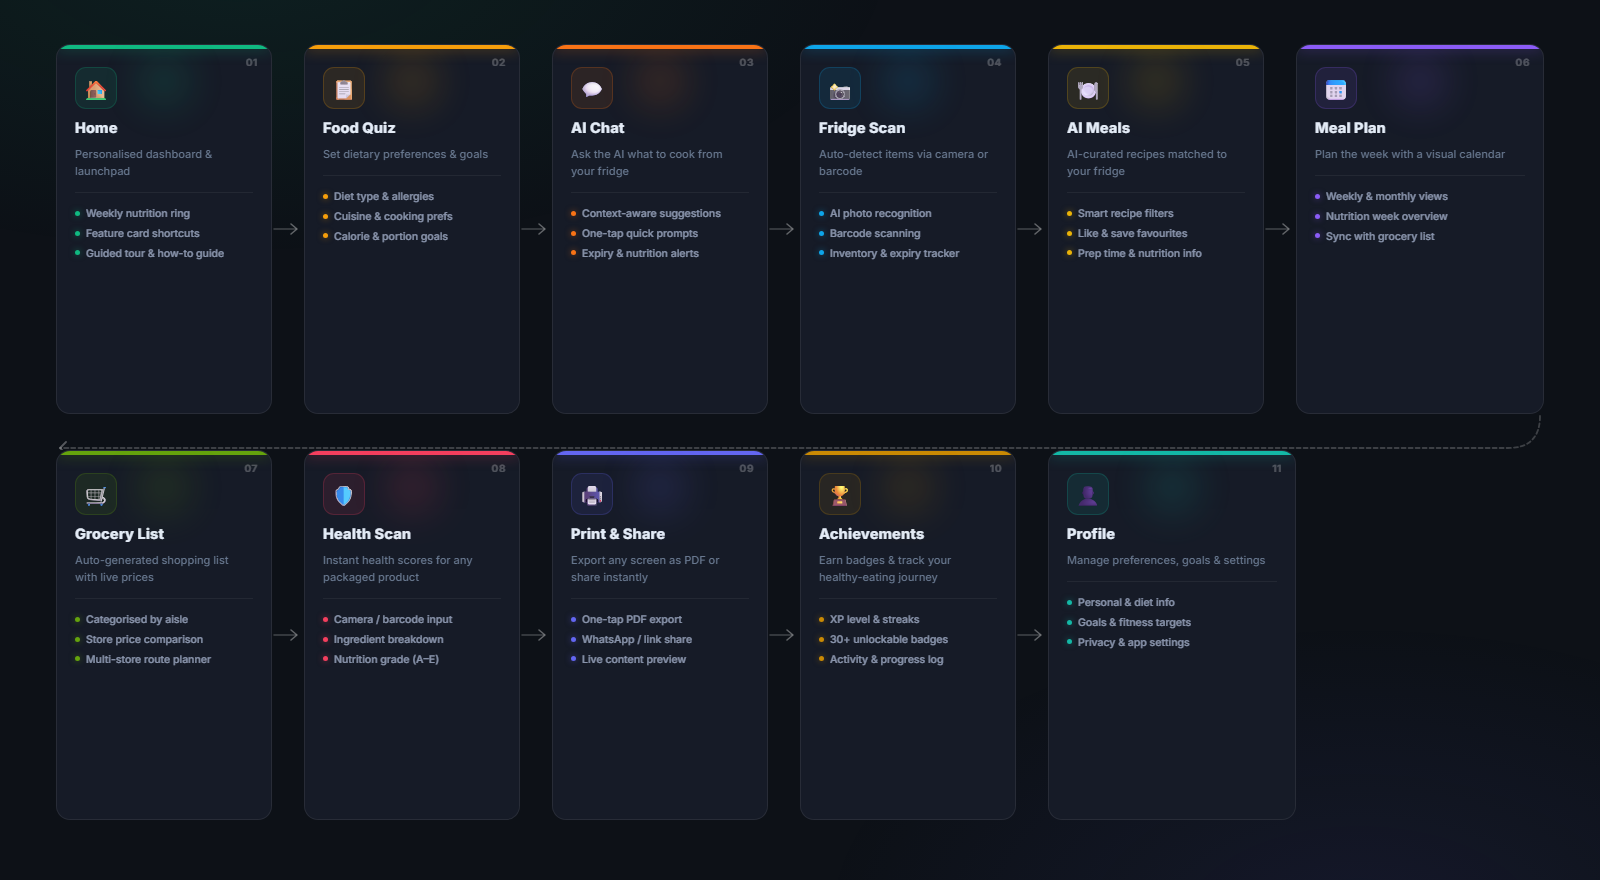
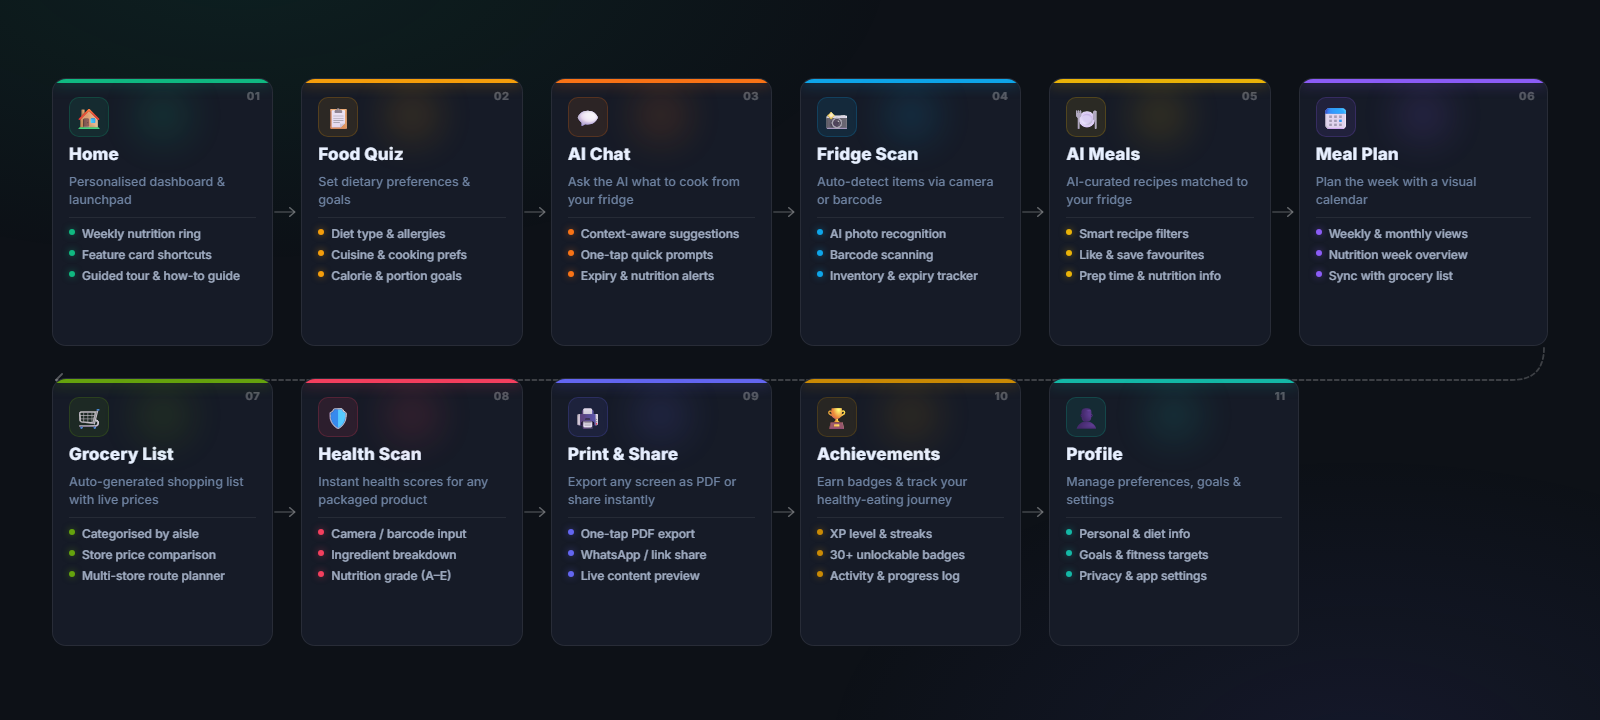
Infographic: shorter cards, larger readable text (1600x720)
Made-with: Cursor

diff --git a/demo-assets/infographic.html b/demo-assets/infographic.html
@@ -11,7 +11,7 @@ body{
   font-family:'Inter',system-ui,sans-serif;
   background:#0d1117;
   width:1600px;
-  height:860px;
+  height:720px;
   overflow:hidden;
 }
 body::before{
@@ -24,9 +24,11 @@ body::before{
 /* ── LAYOUT ─────────────────────────────────── */
 .canvas{
   position:relative;z-index:1;
-  padding:44px 56px 40px;
-  height:860px;
+  padding:36px 52px 32px;
+  height:720px;
   display:flex;flex-direction:column;
+  justify-content:center;
+  gap:0;
 }
 
 /* Each row is its own 6-col grid — same width = equal card sizes */
@@ -34,22 +36,23 @@ body::before{
   display:grid;
   grid-template-columns:repeat(6,1fr);
   gap:0;
-  flex:1;min-height:0;
   align-items:stretch;
+  height:268px;      /* fixed shorter card height */
+  flex-shrink:0;
 }
 
 /* the gap between rows — holds the L-connector */
 .connector-row{
-  height:36px;flex-shrink:0;
+  height:32px;flex-shrink:0;
   position:relative;
 }
 
 /* ── FLOW UNIT = card + arrow ────────────────── */
-.unit{display:flex;align-items:stretch;min-width:0;align-self:stretch;}
+.unit{display:flex;align-items:stretch;min-width:0;}
 
 /* ── ARROW ──────────────────────────────────── */
 .arr{
-  flex-shrink:0;width:32px;
+  flex-shrink:0;width:28px;
   display:flex;align-items:center;justify-content:center;
   align-self:center;
 }
@@ -60,8 +63,8 @@ body::before{
   background:#161b27;
   border:1.5px solid rgba(255,255,255,.08);
   border-radius:14px;
-  padding:22px 18px 18px;
-  display:flex;flex-direction:column;gap:10px;
+  padding:18px 16px 16px;
+  display:flex;flex-direction:column;gap:8px;
   position:relative;overflow:hidden;
   height:100%;
 }
@@ -79,45 +82,45 @@ body::before{
 }
 
 .step{
-  position:absolute;top:11px;right:13px;
-  font-size:10px;font-weight:700;letter-spacing:.06em;
-  color:rgba(255,255,255,.25);
+  position:absolute;top:10px;right:12px;
+  font-size:11px;font-weight:700;letter-spacing:.06em;
+  color:rgba(255,255,255,.28);
 }
 
 .icon{
-  width:42px;height:42px;border-radius:11px;
+  width:40px;height:40px;border-radius:10px;
   background:var(--b);border:1px solid var(--e);
   display:flex;align-items:center;justify-content:center;
-  font-size:20px;flex-shrink:0;
+  font-size:21px;flex-shrink:0;
   position:relative;z-index:1;
 }
 
 .name{
-  font-size:14.5px;font-weight:800;
-  color:#e4ecf7;letter-spacing:.01em;line-height:1.2;
+  font-size:17px;font-weight:800;
+  color:#e8f0ff;letter-spacing:.01em;line-height:1.15;
 }
 
 .desc{
-  font-size:11px;font-weight:500;color:#68788f;
-  line-height:1.55;
+  font-size:12.5px;font-weight:500;color:#6e82a0;
+  line-height:1.45;
 }
 
 /* separator */
 .sep{
-  height:1px;background:rgba(255,255,255,.06);
-  flex-shrink:0;margin:2px 0;
+  height:1px;background:rgba(255,255,255,.07);
+  flex-shrink:0;
 }
 
-.bullets{list-style:none;display:flex;flex-direction:column;gap:5px;margin-top:2px;}
+.bullets{list-style:none;display:flex;flex-direction:column;gap:5px;}
 .bullets li{
-  display:flex;align-items:flex-start;gap:6px;
-  font-size:10.5px;font-weight:500;
-  color:rgba(210,225,255,.62);line-height:1.4;
+  display:flex;align-items:flex-start;gap:7px;
+  font-size:12px;font-weight:500;
+  color:rgba(215,230,255,.72);line-height:1.35;
 }
 .dot{
-  width:5px;height:5px;border-radius:50%;
-  background:var(--c);flex-shrink:0;margin-top:3.5px;
-  box-shadow:0 0 6px var(--g);
+  width:6px;height:6px;border-radius:50%;
+  background:var(--c);flex-shrink:0;margin-top:3px;
+  box-shadow:0 0 7px var(--g);
 }
 
 /* ── COLOURS ────────────────────────────────── */
